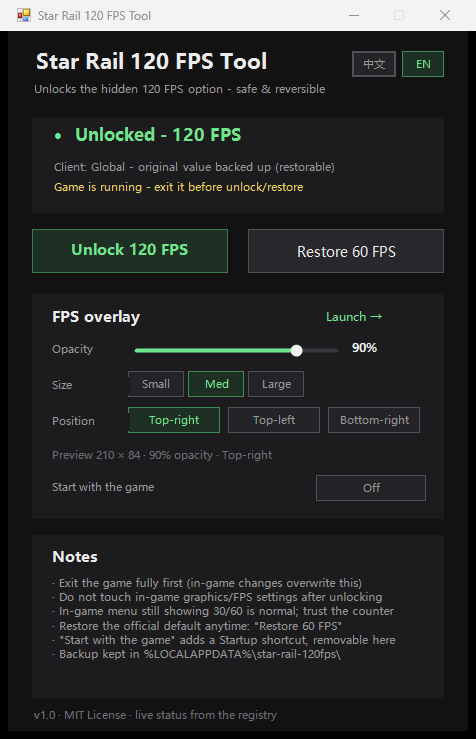
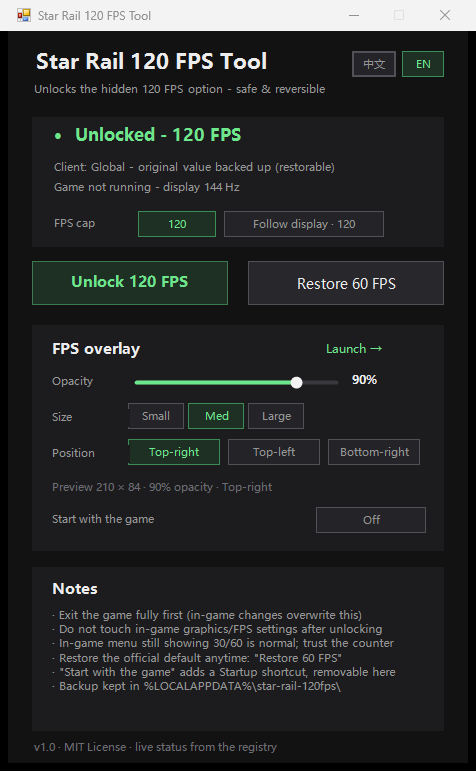
Cap the FPS tier at 30/60/120 and add follow-the-display mode
The client ignores anything above 120, so both new options stay inside the
three tiers it actually honours.

- fps-cap.ps1 gains -TargetFps and -Auto (maps the primary display's
  refresh rate onto the highest tier it can show)
- GUI: FPS cap pills (120 / Follow display), saved to overlay.json
- Overlay remembers where you dragged it (position.json); picking a corner
  preset clears that memory
- Watcher shows a tray balloon when the game resets the cap to 60
- FPS-MONITOR.bat skips the UAC prompt when the user is already in
  Performance Log Users; ENABLE-NO-UAC.bat gets them there in one step

diff --git a/README.en.md b/README.en.md
@@ -54,6 +54,17 @@ The "FPS overlay" card has a **Start with the game** switch:
 
 > This switch is off by default. "No auto-start entries" describes the default state — the tool never adds one behind your back.
 
+The watcher also keeps an eye on the cap: if you change a graphics option in-game (the game resets it to 60 on the way out), a tray balloon reminds you to unlock again.
+
+### FPS tier: 120, or follow the display
+
+The first card has an **FPS cap** row with two options:
+
+- **120** (default): the only hidden high-refresh tier the client has, and the highest value the community has verified
+- **Follow · N**: picks the highest of the 30/60/120 tiers that does not exceed the primary display's refresh rate; N is what would be written right now
+
+The client accepts exactly 30, 60 and 120 — writing 144 or 165 is silently ignored (community-tested, and PCGamingWiki lists the same three tiers). That means "follow the display" equals 60 on a 60 Hz panel (no unlock at all) and 120 on anything 120 Hz or faster.
+
 ## Verify the frame rate
 
 Note: after unlocking, the in-game Settings → FPS value may still display 30/60 — that is a known display bug caused by the hidden option. Trust an external counter instead:
@@ -90,9 +101,13 @@ Run `StarRail-120FPS.bat` and use the "FPS overlay" card at the bottom:
 
 Changes are written straight to `%LOCALAPPDATA%\star-rail-120fps\overlay.json`, and the next `FPS-MONITOR.bat` launch uses that style. Delete the file to go back to defaults.
 
+Drag the overlay anywhere and the drop position is saved to `%LOCALAPPDATA%\star-rail-120fps\position.json`, so the next launch lands back there. Clicking any corner preset (top-right / top-left / bottom-right) clears that memory and returns to the preset.
+
 ### Making it permanently admin-free (optional)
 
-PresentMon officially supports a non-elevated path: add your user to the `Performance Log Users` system group. Run once as administrator:
+PresentMon officially supports a non-elevated path: add your user to the `Performance Log Users` system group.
+
+Easiest way: run `ENABLE-NO-UAC.bat` from the repository (it asks for administrator rights once, adds you to the group, and tells you what to do next). To do it by hand, run once as administrator:
 
 ```bat
 net localgroup "Performance Log Users" %USERNAME% /add

diff --git a/README.md b/README.md
@@ -54,6 +54,17 @@
 
 > 这个开关默认关闭。标着「不加开机自启」指的是默认状态——本项目不会在你不知情时写任何启动项。
 
+守护进程还会盯着帧率上限：如果你在游戏里改过画面设置（游戏会顺手把它重置回 60），会弹一个托盘气泡提醒你重新解锁。
+
+### 帧率档位：120，或跟随屏幕
+
+界面第一张卡片下方有「目标帧率」两个选项：
+
+- **120**（默认）：游戏唯一的隐藏高帧档，也是社区验证过的上限
+- **跟随屏幕 · N**：按主显示器刷新率，在 30/60/120 三档里取不超过屏幕的最高档，N 是当前会写入的值
+
+客户端只认 30/60/120 三个值，写 144 或 165 会被直接忽略（NGA 实测「解锁至 144 无效，120 有效」、PCGamingWiki 同为 30/60/120 三档）。所以「跟随屏幕」在 60Hz 屏上等于 60（不解锁），在 120Hz 及以上的屏上等于 120。
+
 ## 验证帧率生效（任选一种）
 
 注意：解锁后游戏内"设置 → 帧率"可能仍显示 30/60——这是官方隐藏档位造成的**显示不同步**，以外部计数器实测为准。
@@ -90,9 +101,13 @@
 
 改动即时写入 `%LOCALAPPDATA%\star-rail-120fps\overlay.json`，之后双击 `FPS-MONITOR.bat` 就按这套样式显示。删掉该文件即恢复默认值。
 
+把小窗拖到任意位置后，落点会记在 `%LOCALAPPDATA%\star-rail-120fps\position.json`，下次启动直接回到那里。再点界面上任何一个位置预设（右上 / 左上 / 右下），这份记忆会被清掉，改回预设位置。
+
 ### 想让小窗永久免管理员授权（可选）
 
-PresentMon 官方支持一条免提权的路径：把当前用户加入系统组 `Performance Log Users`（性能日志用户）。操作（需一次管理员权限）：
+PresentMon 官方支持一条免提权的路径：把当前用户加入系统组 `Performance Log Users`（性能日志用户）。
+
+最省事的做法：双击仓库里的 `ENABLE-NO-UAC.bat`（会请求一次管理员权限），它会自动加好并告诉你下一步。想手动操作：
 
 ```bat
 net localgroup "Performance Log Users" %USERNAME% /add
